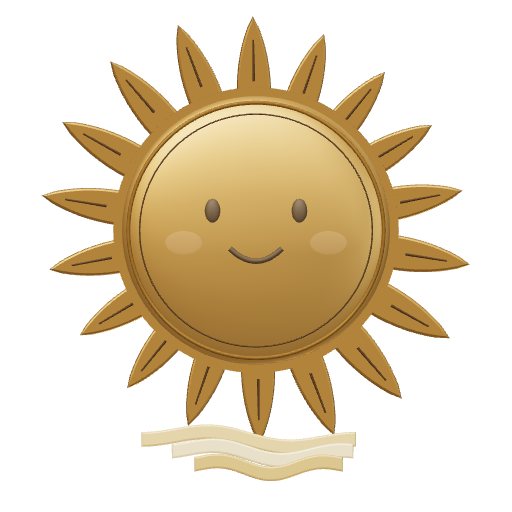
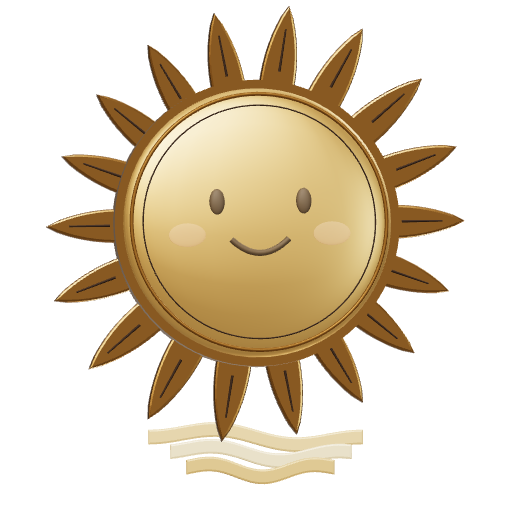
Soléa: sharp at launcher size
The canvas was drawn at no more than 1.75x the page and scaled up, so on a 2x or 3x screen the
56-62 px avatar stepped and blurred. Small canvases now render at twice the screen's density
(up to 4x) and scale down, which keeps the rays and the engraving crisp; larger ones stay at
the screen's density. The still shown before the 3D loads is rendered again from the current
finish at 192 px (was 160 px in the earlier colours), and the idle poster at 512 px.

diff --git a/assets/liora/solea/sol-avatar.js b/assets/liora/solea/sol-avatar.js
@@ -24436,7 +24436,7 @@ class Mp extends HTMLElement {
     if (!this.initializing) {
       this.initializing = !0;
       try {
-        this.renderer = new Ff({ antialias: !0, alpha: !0, powerPreference: "low-power" }), this.renderer.setPixelRatio(Math.min(devicePixelRatio, 1.75)), this.renderer.setClearColor(16050905, 0), this.renderer.outputColorSpace = _t, this.renderer.toneMapping = 4, this.renderer.toneMappingExposure = 0.98, this.mount.appendChild(this.renderer.domElement), this.scene = new Ya(), this.camera = new fs(-2.5, 2.5, 2.5, -2.5, 0.1, 40), this.camera.position.set(0, 0.08, 8), this.camera.lookAt(0, 0, 0);
+        this.renderer = new Ff({ antialias: !0, alpha: !0, powerPreference: "low-power" }), this.renderer.setClearColor(16050905, 0), this.renderer.outputColorSpace = _t, this.renderer.toneMapping = 4, this.renderer.toneMappingExposure = 0.98, this.mount.appendChild(this.renderer.domElement), this.scene = new Ya(), this.camera = new fs(-2.5, 2.5, 2.5, -2.5, 0.1, 40), this.camera.position.set(0, 0.08, 8), this.camera.lookAt(0, 0, 0);
         const e = new ir(this.renderer), t = new xp();
         this.environmentTarget = e.fromScene(t, 0.035), this.scene.environment = this.environmentTarget.texture, this.scene.environmentIntensity = 0.82, t.dispose(), e.dispose();
         const n = new Si(16774367, 3.2);
@@ -24469,8 +24469,10 @@ class Mp extends HTMLElement {
   }
   resize() {
     if (!this.renderer || !this.camera) return;
-    const e = Math.max(1, this.clientWidth), t = Math.max(1, this.clientHeight), n = e / t, i = n < 1 ? 4.95 / n : 4.95;
-    this.camera.left = -i * n / 2, this.camera.right = i * n / 2, this.camera.top = i / 2, this.camera.bottom = -i / 2, this.camera.updateProjectionMatrix(), this.renderer.setSize(e, t, !1), this.render();
+    const e = Math.max(1, this.clientWidth), t = Math.max(1, this.clientHeight), n = Math.max(e, t) <= 160;
+    this.renderer.setPixelRatio(Math.min(n ? 4 : 2, (window.devicePixelRatio || 1) * (n ? 2 : 1)));
+    const i = e / t, r = i < 1 ? 4.95 / i : 4.95;
+    this.camera.left = -r * i / 2, this.camera.right = r * i / 2, this.camera.top = r / 2, this.camera.bottom = -r / 2, this.camera.updateProjectionMatrix(), this.renderer.setSize(e, t, !1), this.render();
   }
   // Nueva Living's finish, applied over the model Kimi delivered (finish="kimi" keeps the original):
   // the brand gold (#a8834a) instead of a lighter yellow-beige, satin with a crisp highlight, darker

diff --git a/tools/solea/src/sol-avatar.js b/tools/solea/src/sol-avatar.js
@@ -129,8 +129,7 @@ class SolAvatar extends HTMLElement {
     this.initializing = true;
     try {
       this.renderer = new THREE.WebGLRenderer({ antialias: true, alpha: true, powerPreference: 'low-power' });
-      this.renderer.setPixelRatio(Math.min(devicePixelRatio, 1.75));
-      this.renderer.setClearColor(0xf4ead9, 0);
+            this.renderer.setClearColor(0xf4ead9, 0);
       this.renderer.outputColorSpace = THREE.SRGBColorSpace;
       this.renderer.toneMapping = THREE.ACESFilmicToneMapping;
       this.renderer.toneMappingExposure = 0.98;
@@ -228,6 +227,11 @@ class SolAvatar extends HTMLElement {
     if (!this.renderer || !this.camera) return;
     const width = Math.max(1, this.clientWidth);
     const height = Math.max(1, this.clientHeight);
+    // Small canvases (the launcher and the panel header, about 56-62 px) are drawn at twice the
+    // screen's density and scaled down, so the thin rays and the engraving stay sharp instead of
+    // stepping; the cost is negligible at that size. Larger ones render at the screen's density.
+    const small = Math.max(width, height) <= 160;
+    this.renderer.setPixelRatio(Math.min(small ? 4 : 2, (window.devicePixelRatio || 1) * (small ? 2 : 1)));
     const aspect = width / height;
     const viewHeight = aspect < 1 ? 4.95 / aspect : 4.95;
     this.camera.left = -viewHeight * aspect / 2;
